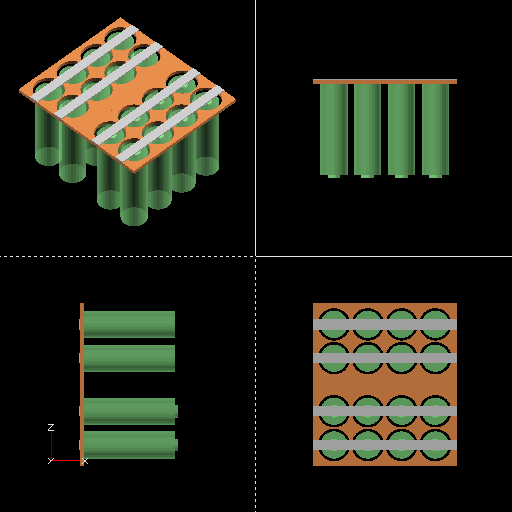
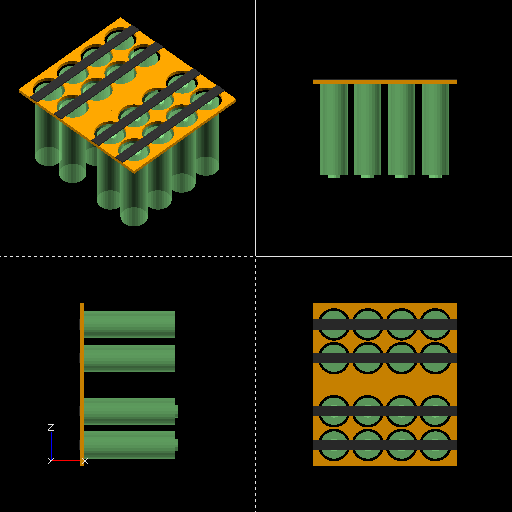
mini changes

diff --git a/evehicle/battery/index.html b/evehicle/battery/index.html
@@ -1182,7 +1182,7 @@ data-scadfile="code.scad"><pre class="sourceCode clojure"><code class="sourceCod
 <div class="RESULTS drawer">
 <p><img src="././3d/packs2.png" /></p>
 </div>
-<summary>clojure</summary><code><div class="sourceCode" id="cb1" data-exports="both" data-session="batt"
+<code><div class="sourceCode" id="cb1" data-exports="both" data-session="batt"
 data-codefile="code.clj" data-results="output table"
 data-scadfile="code.scad"><pre class="sourceCode clojure"><code class="sourceCode clojure"><span id="cb1-1"><a href="#cb1-1" aria-hidden="true" tabindex="-1"></a>(<span class="bu">def</span><span class="fu"> battCase </span>(-&gt;Obj [<span class="fl">350.0</span> <span class="fl">500.0</span> <span class="fl">195.0</span>] <span class="va">nil</span>)) <span class="co">; just for dimensions</span></span>
 <span id="cb1-2"><a href="#cb1-2" aria-hidden="true" tabindex="-1"></a>(printDims <span class="st">&quot;bc&quot;</span> battCase <span class="st">&quot;p1&quot;</span> pack1 <span class="st">&quot;p2&quot;</span> pack2 <span class="st">&quot;p3&quot;</span> pack3 <span class="st">&quot;p4&quot;</span> pack4)</span></code></pre></div></code>
@@ -1236,14 +1236,14 @@ data-scadfile="code.scad"><pre class="sourceCode clojure"><code class="sourceCod
 </tbody>
 </table>
 </div>
-<p><u>actually pack2/3 seem very interesting, why is this an uncommon HP
-or DIY format?</u></p>
+<p>actually pack2/3 seem very interesting, why is this an uncommon
+format for high output batteries?</p>
 </section>
 <section id="pack-1-option" class="level1">
 <h1>Pack 1 Option</h1>
 <section id="model" class="level2">
 <h2>Model</h2>
-<summary>clojure</summary><code><div class="sourceCode" id="cb1" data-exports="both" data-axes="t"
+<code><div class="sourceCode" id="cb1" data-exports="both" data-axes="t"
 data-session="batt" data-codefile="code.clj"
 data-scadfile="code.scad"><pre class="sourceCode clojure"><code class="sourceCode clojure"><span id="cb1-1"><a href="#cb1-1" aria-hidden="true" tabindex="-1"></a>(previewObj <span class="dv">300</span> pack1)</span></code></pre></div></code>
 <div class="RESULTS drawer">
@@ -1303,83 +1303,85 @@ data-scadfile="code.scad"><pre class="sourceCode clojure"><code class="sourceCod
 <span id="cb1-18"><a href="#cb1-18" aria-hidden="true" tabindex="-1"></a>      xDim        (<span class="kw">+</span> (<span class="kw">get</span> parallelCellsDim <span class="dv">0</span>) padding)</span>
 <span id="cb1-19"><a href="#cb1-19" aria-hidden="true" tabindex="-1"></a>      yDim        (<span class="kw">+</span> (<span class="kw">get</span> parallelCellsDim <span class="dv">1</span>) padding)</span>
 <span id="cb1-20"><a href="#cb1-20" aria-hidden="true" tabindex="-1"></a></span>
-<span id="cb1-21"><a href="#cb1-21" aria-hidden="true" tabindex="-1"></a>      copperColor [<span class="fl">0.9</span> <span class="fl">0.55</span> <span class="fl">0.3</span>]]</span>
-<span id="cb1-22"><a href="#cb1-22" aria-hidden="true" tabindex="-1"></a></span>
-<span id="cb1-23"><a href="#cb1-23" aria-hidden="true" tabindex="-1"></a>      (<span class="kw">println</span> <span class="st">&quot;// dims&quot;</span> xDim yDim thicc)</span>
-<span id="cb1-24"><a href="#cb1-24" aria-hidden="true" tabindex="-1"></a></span>
-<span id="cb1-25"><a href="#cb1-25" aria-hidden="true" tabindex="-1"></a>(<span class="bu">def</span><span class="fu"> busBarObj</span></span>
-<span id="cb1-26"><a href="#cb1-26" aria-hidden="true" tabindex="-1"></a>  (-&gt;Obj [xDim yDim thicc]</span>
-<span id="cb1-27"><a href="#cb1-27" aria-hidden="true" tabindex="-1"></a>         (color copperColor (translate [<span class="dv">0</span> <span class="dv">0</span> (<span class="kw">+</span> zOffset)]</span>
-<span id="cb1-28"><a href="#cb1-28" aria-hidden="true" tabindex="-1"></a>         (<span class="kw">difference</span></span>
-<span id="cb1-29"><a href="#cb1-29" aria-hidden="true" tabindex="-1"></a>           (cube xDim yDim thicc)</span>
-<span id="cb1-30"><a href="#cb1-30" aria-hidden="true" tabindex="-1"></a>           (<span class="at">:obj</span> holeGroupObj))))))</span>
-<span id="cb1-31"><a href="#cb1-31" aria-hidden="true" tabindex="-1"></a></span>
-<span id="cb1-32"><a href="#cb1-32" aria-hidden="true" tabindex="-1"></a><span class="co">;(def parallelCellsObj (xyGrid (:space @cellGroupSpec) (:xn @cellGroupSpec) (:yn @cellGroupSpec) cellObj))</span></span>
-<span id="cb1-33"><a href="#cb1-33" aria-hidden="true" tabindex="-1"></a></span>
-<span id="cb1-34"><a href="#cb1-34" aria-hidden="true" tabindex="-1"></a>(<span class="bu">def</span><span class="fu"> nickelStripObj</span></span>
-<span id="cb1-35"><a href="#cb1-35" aria-hidden="true" tabindex="-1"></a>  (<span class="kw">let</span> [</span>
-<span id="cb1-36"><a href="#cb1-36" aria-hidden="true" tabindex="-1"></a>      nickelWidth   <span class="dv">8</span></span>
-<span id="cb1-37"><a href="#cb1-37" aria-hidden="true" tabindex="-1"></a>      nickelLength  xDim</span>
-<span id="cb1-38"><a href="#cb1-38" aria-hidden="true" tabindex="-1"></a>      nickelThicc   <span class="dv">1</span></span>
-<span id="cb1-39"><a href="#cb1-39" aria-hidden="true" tabindex="-1"></a>      nickelColor   [<span class="fl">0.8</span> <span class="fl">0.8</span> <span class="fl">0.8</span>]]</span>
-<span id="cb1-40"><a href="#cb1-40" aria-hidden="true" tabindex="-1"></a>                           <span class="co">; &quot;virtual&quot; Y thickness for easy assembly</span></span>
-<span id="cb1-41"><a href="#cb1-41" aria-hidden="true" tabindex="-1"></a>      (-&gt;Obj [nickelLength (<span class="at">:d</span> <span class="at">@cellSpec</span>) nickelThicc]</span>
-<span id="cb1-42"><a href="#cb1-42" aria-hidden="true" tabindex="-1"></a>             (color nickelColor (cube nickelLength nickelWidth nickelThicc)))))</span>
-<span id="cb1-43"><a href="#cb1-43" aria-hidden="true" tabindex="-1"></a></span>
-<span id="cb1-44"><a href="#cb1-44" aria-hidden="true" tabindex="-1"></a>(<span class="bu">def</span><span class="fu"> nickelStripsObj </span>(pairObj [<span class="dv">0</span> <span class="dv">1</span> <span class="dv">0</span>] (<span class="at">:space</span> <span class="at">@cellGroupSpec</span>) nickelStripObj nickelStripObj))</span>
-<span id="cb1-45"><a href="#cb1-45" aria-hidden="true" tabindex="-1"></a>(<span class="bu">def</span><span class="fu"> busBarNickelObj </span>(pairObj [<span class="dv">0</span> <span class="dv">0</span> <span class="dv">1</span>] <span class="dv">0</span> busBarObj nickelStripsObj ))</span>
+<span id="cb1-21"><a href="#cb1-21" aria-hidden="true" tabindex="-1"></a>      <span class="co">; copperColor [0.9 0.55 0.3]]</span></span>
+<span id="cb1-22"><a href="#cb1-22" aria-hidden="true" tabindex="-1"></a>      copperColor (hex-to-rgb <span class="st">&quot;#ffa500&quot;</span>)]</span>
+<span id="cb1-23"><a href="#cb1-23" aria-hidden="true" tabindex="-1"></a></span>
+<span id="cb1-24"><a href="#cb1-24" aria-hidden="true" tabindex="-1"></a>      (<span class="kw">println</span> <span class="st">&quot;// dims&quot;</span> xDim yDim thicc)</span>
+<span id="cb1-25"><a href="#cb1-25" aria-hidden="true" tabindex="-1"></a></span>
+<span id="cb1-26"><a href="#cb1-26" aria-hidden="true" tabindex="-1"></a>(<span class="bu">def</span><span class="fu"> busBarObj</span></span>
+<span id="cb1-27"><a href="#cb1-27" aria-hidden="true" tabindex="-1"></a>  (-&gt;Obj [xDim yDim thicc]</span>
+<span id="cb1-28"><a href="#cb1-28" aria-hidden="true" tabindex="-1"></a>         (color copperColor (translate [<span class="dv">0</span> <span class="dv">0</span> (<span class="kw">+</span> zOffset)]</span>
+<span id="cb1-29"><a href="#cb1-29" aria-hidden="true" tabindex="-1"></a>         (<span class="kw">difference</span></span>
+<span id="cb1-30"><a href="#cb1-30" aria-hidden="true" tabindex="-1"></a>           (cube xDim yDim thicc)</span>
+<span id="cb1-31"><a href="#cb1-31" aria-hidden="true" tabindex="-1"></a>           (<span class="at">:obj</span> holeGroupObj))))))</span>
+<span id="cb1-32"><a href="#cb1-32" aria-hidden="true" tabindex="-1"></a></span>
+<span id="cb1-33"><a href="#cb1-33" aria-hidden="true" tabindex="-1"></a><span class="co">;(def parallelCellsObj (xyGrid (:space @cellGroupSpec) (:xn @cellGroupSpec) (:yn @cellGroupSpec) cellObj))</span></span>
+<span id="cb1-34"><a href="#cb1-34" aria-hidden="true" tabindex="-1"></a></span>
+<span id="cb1-35"><a href="#cb1-35" aria-hidden="true" tabindex="-1"></a>(<span class="bu">def</span><span class="fu"> nickelStripObj</span></span>
+<span id="cb1-36"><a href="#cb1-36" aria-hidden="true" tabindex="-1"></a>  (<span class="kw">let</span> [</span>
+<span id="cb1-37"><a href="#cb1-37" aria-hidden="true" tabindex="-1"></a>      nickelWidth   <span class="dv">8</span></span>
+<span id="cb1-38"><a href="#cb1-38" aria-hidden="true" tabindex="-1"></a>      nickelLength  xDim</span>
+<span id="cb1-39"><a href="#cb1-39" aria-hidden="true" tabindex="-1"></a>      nickelThicc   <span class="dv">1</span></span>
+<span id="cb1-40"><a href="#cb1-40" aria-hidden="true" tabindex="-1"></a><span class="co">;      nickelColor   [0.8 0.8 0.8]</span></span>
+<span id="cb1-41"><a href="#cb1-41" aria-hidden="true" tabindex="-1"></a>      nickelColor   (hex-to-rgb <span class="st">&quot;#333333&quot;</span>)</span>
+<span id="cb1-42"><a href="#cb1-42" aria-hidden="true" tabindex="-1"></a>        ]</span>
+<span id="cb1-43"><a href="#cb1-43" aria-hidden="true" tabindex="-1"></a>                           <span class="co">; &quot;virtual&quot; Y thickness for easy assembly</span></span>
+<span id="cb1-44"><a href="#cb1-44" aria-hidden="true" tabindex="-1"></a>      (-&gt;Obj [nickelLength (<span class="at">:d</span> <span class="at">@cellSpec</span>) nickelThicc]</span>
+<span id="cb1-45"><a href="#cb1-45" aria-hidden="true" tabindex="-1"></a>             (color nickelColor (cube nickelLength nickelWidth nickelThicc)))))</span>
 <span id="cb1-46"><a href="#cb1-46" aria-hidden="true" tabindex="-1"></a></span>
-<span id="cb1-47"><a href="#cb1-47" aria-hidden="true" tabindex="-1"></a>(<span class="bu">def</span><span class="fu"> busBarPairY</span></span>
-<span id="cb1-48"><a href="#cb1-48" aria-hidden="true" tabindex="-1"></a>  (<span class="kw">let</span> [</span>
-<span id="cb1-49"><a href="#cb1-49" aria-hidden="true" tabindex="-1"></a>        midSpace (<span class="kw">-</span> (<span class="at">:space</span> <span class="at">@packSpec</span>) padding)</span>
-<span id="cb1-50"><a href="#cb1-50" aria-hidden="true" tabindex="-1"></a>        width (<span class="kw">nth</span> (<span class="at">:dims</span> busBarObj) <span class="dv">0</span>)</span>
-<span id="cb1-51"><a href="#cb1-51" aria-hidden="true" tabindex="-1"></a>        spacer (-&gt;Obj [width midSpace thicc] (color copperColor (cube width midSpace thicc)))</span>
-<span id="cb1-52"><a href="#cb1-52" aria-hidden="true" tabindex="-1"></a>        joinedBusBar (seqObj [<span class="dv">0</span> <span class="dv">1</span> <span class="dv">0</span>] <span class="dv">0</span> [busBarObj spacer busBarObj])</span>
-<span id="cb1-53"><a href="#cb1-53" aria-hidden="true" tabindex="-1"></a>        joinedNickelStrips (pairObj [<span class="dv">0</span> <span class="dv">1</span> <span class="dv">0</span>] (<span class="at">:space</span> <span class="at">@packSpec</span>) nickelStripsObj nickelStripsObj)</span>
-<span id="cb1-54"><a href="#cb1-54" aria-hidden="true" tabindex="-1"></a>        ]</span>
-<span id="cb1-55"><a href="#cb1-55" aria-hidden="true" tabindex="-1"></a>    (pairObj [<span class="dv">0</span> <span class="dv">0</span> <span class="dv">1</span>] <span class="dv">0</span> joinedBusBar joinedNickelStrips)))</span>
-<span id="cb1-56"><a href="#cb1-56" aria-hidden="true" tabindex="-1"></a></span>
-<span id="cb1-57"><a href="#cb1-57" aria-hidden="true" tabindex="-1"></a>)</span>
-<span id="cb1-58"><a href="#cb1-58" aria-hidden="true" tabindex="-1"></a></span>
-<span id="cb1-59"><a href="#cb1-59" aria-hidden="true" tabindex="-1"></a>(<span class="bu">def</span><span class="fu"> test2S </span>(pairObj [<span class="dv">0</span> <span class="dv">1</span> <span class="dv">0</span>] (<span class="at">:space</span> <span class="at">@packSpec</span>) parallelCellsObj (flipObj parallelCellsObj)))</span>
+<span id="cb1-47"><a href="#cb1-47" aria-hidden="true" tabindex="-1"></a>(<span class="bu">def</span><span class="fu"> nickelStripsObj </span>(pairObj [<span class="dv">0</span> <span class="dv">1</span> <span class="dv">0</span>] (<span class="at">:space</span> <span class="at">@cellGroupSpec</span>) nickelStripObj nickelStripObj))</span>
+<span id="cb1-48"><a href="#cb1-48" aria-hidden="true" tabindex="-1"></a>(<span class="bu">def</span><span class="fu"> busBarNickelObj </span>(pairObj [<span class="dv">0</span> <span class="dv">0</span> <span class="dv">1</span>] <span class="dv">0</span> busBarObj nickelStripsObj ))</span>
+<span id="cb1-49"><a href="#cb1-49" aria-hidden="true" tabindex="-1"></a></span>
+<span id="cb1-50"><a href="#cb1-50" aria-hidden="true" tabindex="-1"></a>(<span class="bu">def</span><span class="fu"> busBarPairY</span></span>
+<span id="cb1-51"><a href="#cb1-51" aria-hidden="true" tabindex="-1"></a>  (<span class="kw">let</span> [</span>
+<span id="cb1-52"><a href="#cb1-52" aria-hidden="true" tabindex="-1"></a>        midSpace (<span class="kw">-</span> (<span class="at">:space</span> <span class="at">@packSpec</span>) padding)</span>
+<span id="cb1-53"><a href="#cb1-53" aria-hidden="true" tabindex="-1"></a>        width (<span class="kw">nth</span> (<span class="at">:dims</span> busBarObj) <span class="dv">0</span>)</span>
+<span id="cb1-54"><a href="#cb1-54" aria-hidden="true" tabindex="-1"></a>        spacer (-&gt;Obj [width midSpace thicc] (color copperColor (cube width midSpace thicc)))</span>
+<span id="cb1-55"><a href="#cb1-55" aria-hidden="true" tabindex="-1"></a>        joinedBusBar (seqObj [<span class="dv">0</span> <span class="dv">1</span> <span class="dv">0</span>] <span class="dv">0</span> [busBarObj spacer busBarObj])</span>
+<span id="cb1-56"><a href="#cb1-56" aria-hidden="true" tabindex="-1"></a>        joinedNickelStrips (pairObj [<span class="dv">0</span> <span class="dv">1</span> <span class="dv">0</span>] (<span class="at">:space</span> <span class="at">@packSpec</span>) nickelStripsObj nickelStripsObj)</span>
+<span id="cb1-57"><a href="#cb1-57" aria-hidden="true" tabindex="-1"></a>        ]</span>
+<span id="cb1-58"><a href="#cb1-58" aria-hidden="true" tabindex="-1"></a>    (pairObj [<span class="dv">0</span> <span class="dv">0</span> <span class="dv">1</span>] <span class="dv">0</span> joinedBusBar joinedNickelStrips)))</span>
+<span id="cb1-59"><a href="#cb1-59" aria-hidden="true" tabindex="-1"></a>)</span>
 <span id="cb1-60"><a href="#cb1-60" aria-hidden="true" tabindex="-1"></a></span>
-<span id="cb1-61"><a href="#cb1-61" aria-hidden="true" tabindex="-1"></a>(<span class="bu">def</span><span class="fu"> testBusBars2S </span>(pairObj [<span class="dv">0</span> <span class="dv">0</span> <span class="dv">1</span>] <span class="fl">0.1</span> test2S busBarPairY))</span>
+<span id="cb1-61"><a href="#cb1-61" aria-hidden="true" tabindex="-1"></a>(<span class="bu">def</span><span class="fu"> test2S </span>(pairObj [<span class="dv">0</span> <span class="dv">1</span> <span class="dv">0</span>] (<span class="at">:space</span> <span class="at">@packSpec</span>) parallelCellsObj (flipObj parallelCellsObj)))</span>
 <span id="cb1-62"><a href="#cb1-62" aria-hidden="true" tabindex="-1"></a></span>
-<span id="cb1-63"><a href="#cb1-63" aria-hidden="true" tabindex="-1"></a><span class="co">;(:obj testBusBars2S)</span></span>
+<span id="cb1-63"><a href="#cb1-63" aria-hidden="true" tabindex="-1"></a>(<span class="bu">def</span><span class="fu"> testBusBars2S </span>(pairObj [<span class="dv">0</span> <span class="dv">0</span> <span class="dv">1</span>] <span class="fl">0.1</span> test2S busBarPairY))</span>
 <span id="cb1-64"><a href="#cb1-64" aria-hidden="true" tabindex="-1"></a></span>
-<span id="cb1-65"><a href="#cb1-65" aria-hidden="true" tabindex="-1"></a>(<span class="kw">let</span> [</span>
-<span id="cb1-66"><a href="#cb1-66" aria-hidden="true" tabindex="-1"></a>      thicc (<span class="kw">nth</span> (<span class="at">:dims</span> busBarPairY) <span class="dv">2</span>)</span>
-<span id="cb1-67"><a href="#cb1-67" aria-hidden="true" tabindex="-1"></a>      moveZ (<span class="kw">+</span> <span class="fl">0.1</span> (<span class="kw">/</span> (<span class="kw">nth</span> (<span class="at">:dims</span> parallelCellsObj) <span class="dv">2</span>) <span class="dv">2</span>))</span>
-<span id="cb1-68"><a href="#cb1-68" aria-hidden="true" tabindex="-1"></a>      moveY (<span class="kw">/</span> (<span class="kw">+</span> (<span class="kw">nth</span> (<span class="at">:dims</span> parallelCellsObj) <span class="dv">1</span>) (<span class="at">:space</span> <span class="at">@packSpec</span>)) <span class="dv">2</span>)</span>
-<span id="cb1-69"><a href="#cb1-69" aria-hidden="true" tabindex="-1"></a>      ]</span>
-<span id="cb1-70"><a href="#cb1-70" aria-hidden="true" tabindex="-1"></a>(<span class="bu">def</span><span class="fu"> pack1SObj</span></span>
-<span id="cb1-71"><a href="#cb1-71" aria-hidden="true" tabindex="-1"></a>   (-&gt;Obj (<span class="at">:dims</span> parallelCellsObj)</span>
-<span id="cb1-72"><a href="#cb1-72" aria-hidden="true" tabindex="-1"></a>          (<span class="kw">union</span> (<span class="at">:obj</span> parallelCellsObj) (translate [<span class="dv">0</span> moveY moveZ] (<span class="at">:obj</span> busBarPairY))))))</span>
-<span id="cb1-73"><a href="#cb1-73" aria-hidden="true" tabindex="-1"></a></span>
-<span id="cb1-74"><a href="#cb1-74" aria-hidden="true" tabindex="-1"></a></span>
-<span id="cb1-75"><a href="#cb1-75" aria-hidden="true" tabindex="-1"></a>(<span class="bu">def</span><span class="fu"> pack1SPreview </span>(pairObj [<span class="dv">0</span> <span class="dv">1</span> <span class="dv">0</span>] (<span class="at">:space</span> <span class="at">@packSpec</span>)</span>
-<span id="cb1-76"><a href="#cb1-76" aria-hidden="true" tabindex="-1"></a>   pack1SObj</span>
-<span id="cb1-77"><a href="#cb1-77" aria-hidden="true" tabindex="-1"></a>   (rotateObj [<span class="dv">0</span> <span class="dv">0</span> <span class="dv">2</span>] parallelCellsObj)</span>
-<span id="cb1-78"><a href="#cb1-78" aria-hidden="true" tabindex="-1"></a>))</span>
-<span id="cb1-79"><a href="#cb1-79" aria-hidden="true" tabindex="-1"></a></span>
-<span id="cb1-80"><a href="#cb1-80" aria-hidden="true" tabindex="-1"></a>(<span class="bu">def</span><span class="fu"> pack2SObj </span>(pairObj [<span class="dv">0</span> <span class="dv">1</span> <span class="dv">0</span>] (<span class="at">:space</span> <span class="at">@packSpec</span>)</span>
-<span id="cb1-81"><a href="#cb1-81" aria-hidden="true" tabindex="-1"></a>   pack1SObj</span>
-<span id="cb1-82"><a href="#cb1-82" aria-hidden="true" tabindex="-1"></a>   (rotateObj [<span class="dv">0</span> <span class="dv">0</span> <span class="dv">2</span>] (flipObj pack1SObj))</span>
-<span id="cb1-83"><a href="#cb1-83" aria-hidden="true" tabindex="-1"></a>))</span>
-<span id="cb1-84"><a href="#cb1-84" aria-hidden="true" tabindex="-1"></a></span>
-<span id="cb1-85"><a href="#cb1-85" aria-hidden="true" tabindex="-1"></a>(<span class="bu">def</span><span class="fu"> pack4SObj </span>(pairObj [<span class="dv">0</span> <span class="dv">1</span> <span class="dv">0</span>] (<span class="at">:space</span> <span class="at">@packSpec</span>) pack2SObj pack2SObj))</span>
+<span id="cb1-65"><a href="#cb1-65" aria-hidden="true" tabindex="-1"></a><span class="co">;(:obj testBusBars2S)</span></span>
+<span id="cb1-66"><a href="#cb1-66" aria-hidden="true" tabindex="-1"></a></span>
+<span id="cb1-67"><a href="#cb1-67" aria-hidden="true" tabindex="-1"></a>(<span class="kw">let</span> [</span>
+<span id="cb1-68"><a href="#cb1-68" aria-hidden="true" tabindex="-1"></a>      thicc (<span class="kw">nth</span> (<span class="at">:dims</span> busBarPairY) <span class="dv">2</span>)</span>
+<span id="cb1-69"><a href="#cb1-69" aria-hidden="true" tabindex="-1"></a>      moveZ (<span class="kw">+</span> <span class="fl">0.1</span> (<span class="kw">/</span> (<span class="kw">nth</span> (<span class="at">:dims</span> parallelCellsObj) <span class="dv">2</span>) <span class="dv">2</span>))</span>
+<span id="cb1-70"><a href="#cb1-70" aria-hidden="true" tabindex="-1"></a>      moveY (<span class="kw">/</span> (<span class="kw">+</span> (<span class="kw">nth</span> (<span class="at">:dims</span> parallelCellsObj) <span class="dv">1</span>) (<span class="at">:space</span> <span class="at">@packSpec</span>)) <span class="dv">2</span>)</span>
+<span id="cb1-71"><a href="#cb1-71" aria-hidden="true" tabindex="-1"></a>      ]</span>
+<span id="cb1-72"><a href="#cb1-72" aria-hidden="true" tabindex="-1"></a>(<span class="bu">def</span><span class="fu"> pack1SObj</span></span>
+<span id="cb1-73"><a href="#cb1-73" aria-hidden="true" tabindex="-1"></a>   (-&gt;Obj (<span class="at">:dims</span> parallelCellsObj)</span>
+<span id="cb1-74"><a href="#cb1-74" aria-hidden="true" tabindex="-1"></a>          (<span class="kw">union</span> (<span class="at">:obj</span> parallelCellsObj) (translate [<span class="dv">0</span> moveY moveZ] (<span class="at">:obj</span> busBarPairY))))))</span>
+<span id="cb1-75"><a href="#cb1-75" aria-hidden="true" tabindex="-1"></a></span>
+<span id="cb1-76"><a href="#cb1-76" aria-hidden="true" tabindex="-1"></a></span>
+<span id="cb1-77"><a href="#cb1-77" aria-hidden="true" tabindex="-1"></a>(<span class="bu">def</span><span class="fu"> pack1SPreview </span>(pairObj [<span class="dv">0</span> <span class="dv">1</span> <span class="dv">0</span>] (<span class="at">:space</span> <span class="at">@packSpec</span>)</span>
+<span id="cb1-78"><a href="#cb1-78" aria-hidden="true" tabindex="-1"></a>   pack1SObj</span>
+<span id="cb1-79"><a href="#cb1-79" aria-hidden="true" tabindex="-1"></a>   (rotateObj [<span class="dv">0</span> <span class="dv">0</span> <span class="dv">2</span>] parallelCellsObj)</span>
+<span id="cb1-80"><a href="#cb1-80" aria-hidden="true" tabindex="-1"></a>))</span>
+<span id="cb1-81"><a href="#cb1-81" aria-hidden="true" tabindex="-1"></a></span>
+<span id="cb1-82"><a href="#cb1-82" aria-hidden="true" tabindex="-1"></a>(<span class="bu">def</span><span class="fu"> pack2SObj </span>(pairObj [<span class="dv">0</span> <span class="dv">1</span> <span class="dv">0</span>] (<span class="at">:space</span> <span class="at">@packSpec</span>)</span>
+<span id="cb1-83"><a href="#cb1-83" aria-hidden="true" tabindex="-1"></a>   pack1SObj</span>
+<span id="cb1-84"><a href="#cb1-84" aria-hidden="true" tabindex="-1"></a>   (rotateObj [<span class="dv">0</span> <span class="dv">0</span> <span class="dv">2</span>] (flipObj pack1SObj))</span>
+<span id="cb1-85"><a href="#cb1-85" aria-hidden="true" tabindex="-1"></a>))</span>
 <span id="cb1-86"><a href="#cb1-86" aria-hidden="true" tabindex="-1"></a></span>
-<span id="cb1-87"><a href="#cb1-87" aria-hidden="true" tabindex="-1"></a>(<span class="bu">def</span><span class="fu"> pack5SObj </span>(pairObj [<span class="dv">0</span> <span class="dv">1</span> <span class="dv">0</span>] (<span class="at">:space</span> <span class="at">@packSpec</span>) pack4SObj parallelCellsObj))</span>
+<span id="cb1-87"><a href="#cb1-87" aria-hidden="true" tabindex="-1"></a>(<span class="bu">def</span><span class="fu"> pack4SObj </span>(pairObj [<span class="dv">0</span> <span class="dv">1</span> <span class="dv">0</span>] (<span class="at">:space</span> <span class="at">@packSpec</span>) pack2SObj pack2SObj))</span>
 <span id="cb1-88"><a href="#cb1-88" aria-hidden="true" tabindex="-1"></a></span>
-<span id="cb1-89"><a href="#cb1-89" aria-hidden="true" tabindex="-1"></a>(<span class="bu">def</span><span class="fu"> pack10SObj </span>(pairObj [<span class="dv">1</span> <span class="dv">0</span> <span class="dv">0</span>] (<span class="at">:space</span> <span class="at">@packSpec</span>) pack5SObj (rotateObj [<span class="dv">0</span> <span class="dv">2</span> <span class="dv">2</span>] pack5SObj)))</span>
+<span id="cb1-89"><a href="#cb1-89" aria-hidden="true" tabindex="-1"></a>(<span class="bu">def</span><span class="fu"> pack5SObj </span>(pairObj [<span class="dv">0</span> <span class="dv">1</span> <span class="dv">0</span>] (<span class="at">:space</span> <span class="at">@packSpec</span>) pack4SObj parallelCellsObj))</span>
 <span id="cb1-90"><a href="#cb1-90" aria-hidden="true" tabindex="-1"></a></span>
-<span id="cb1-91"><a href="#cb1-91" aria-hidden="true" tabindex="-1"></a>(<span class="bu">def</span><span class="fu"> pack20SObj </span>(pairObj [<span class="dv">1</span> <span class="dv">0</span> <span class="dv">0</span>] (<span class="at">:space</span> <span class="at">@packSpec</span>) pack10SObj pack10SObj))</span>
+<span id="cb1-91"><a href="#cb1-91" aria-hidden="true" tabindex="-1"></a>(<span class="bu">def</span><span class="fu"> pack10SObj </span>(pairObj [<span class="dv">1</span> <span class="dv">0</span> <span class="dv">0</span>] (<span class="at">:space</span> <span class="at">@packSpec</span>) pack5SObj (rotateObj [<span class="dv">0</span> <span class="dv">2</span> <span class="dv">2</span>] pack5SObj)))</span>
 <span id="cb1-92"><a href="#cb1-92" aria-hidden="true" tabindex="-1"></a></span>
-<span id="cb1-93"><a href="#cb1-93" aria-hidden="true" tabindex="-1"></a>(<span class="at">:obj</span> pack20SObj)</span></code></pre></div></code></details>
+<span id="cb1-93"><a href="#cb1-93" aria-hidden="true" tabindex="-1"></a>(<span class="bu">def</span><span class="fu"> pack20SObj </span>(pairObj [<span class="dv">1</span> <span class="dv">0</span> <span class="dv">0</span>] (<span class="at">:space</span> <span class="at">@packSpec</span>) pack10SObj pack10SObj))</span>
+<span id="cb1-94"><a href="#cb1-94" aria-hidden="true" tabindex="-1"></a></span>
+<span id="cb1-95"><a href="#cb1-95" aria-hidden="true" tabindex="-1"></a>(<span class="at">:obj</span> pack20SObj)</span></code></pre></div></code></details>
 <div class="RESULTS drawer">
 <p><img src="././3d/horizBusPack.png" /></p>
 </div>
-<summary>clojure</summary><code><div class="sourceCode" id="cb1" data-exports="both" data-axes="t"
+<code><div class="sourceCode" id="cb1" data-exports="both" data-axes="t"
 data-session="batt" data-codefile="code.clj"
 data-scadfile="code.scad"><pre class="sourceCode clojure"><code class="sourceCode clojure"><span id="cb1-1"><a href="#cb1-1" aria-hidden="true" tabindex="-1"></a>(previewObj <span class="dv">100</span> testBusBars2S)</span></code></pre></div></code>
 <div class="RESULTS drawer">
@@ -1434,7 +1436,7 @@ transfer but cells can be indiviually fused</p>
 </section>
 <section id="model-1" class="level2">
 <h2>Model</h2>
-<summary>clojure</summary><code><div class="sourceCode" id="cb1" data-exports="both" data-axes="t"
+<code><div class="sourceCode" id="cb1" data-exports="both" data-axes="t"
 data-session="batt" data-codefile="code.clj"
 data-scadfile="code.scad"><pre class="sourceCode clojure"><code class="sourceCode clojure"><span id="cb1-1"><a href="#cb1-1" aria-hidden="true" tabindex="-1"></a>(previewObj <span class="dv">250</span> pack3)</span></code></pre></div></code>
 <div class="RESULTS drawer">
